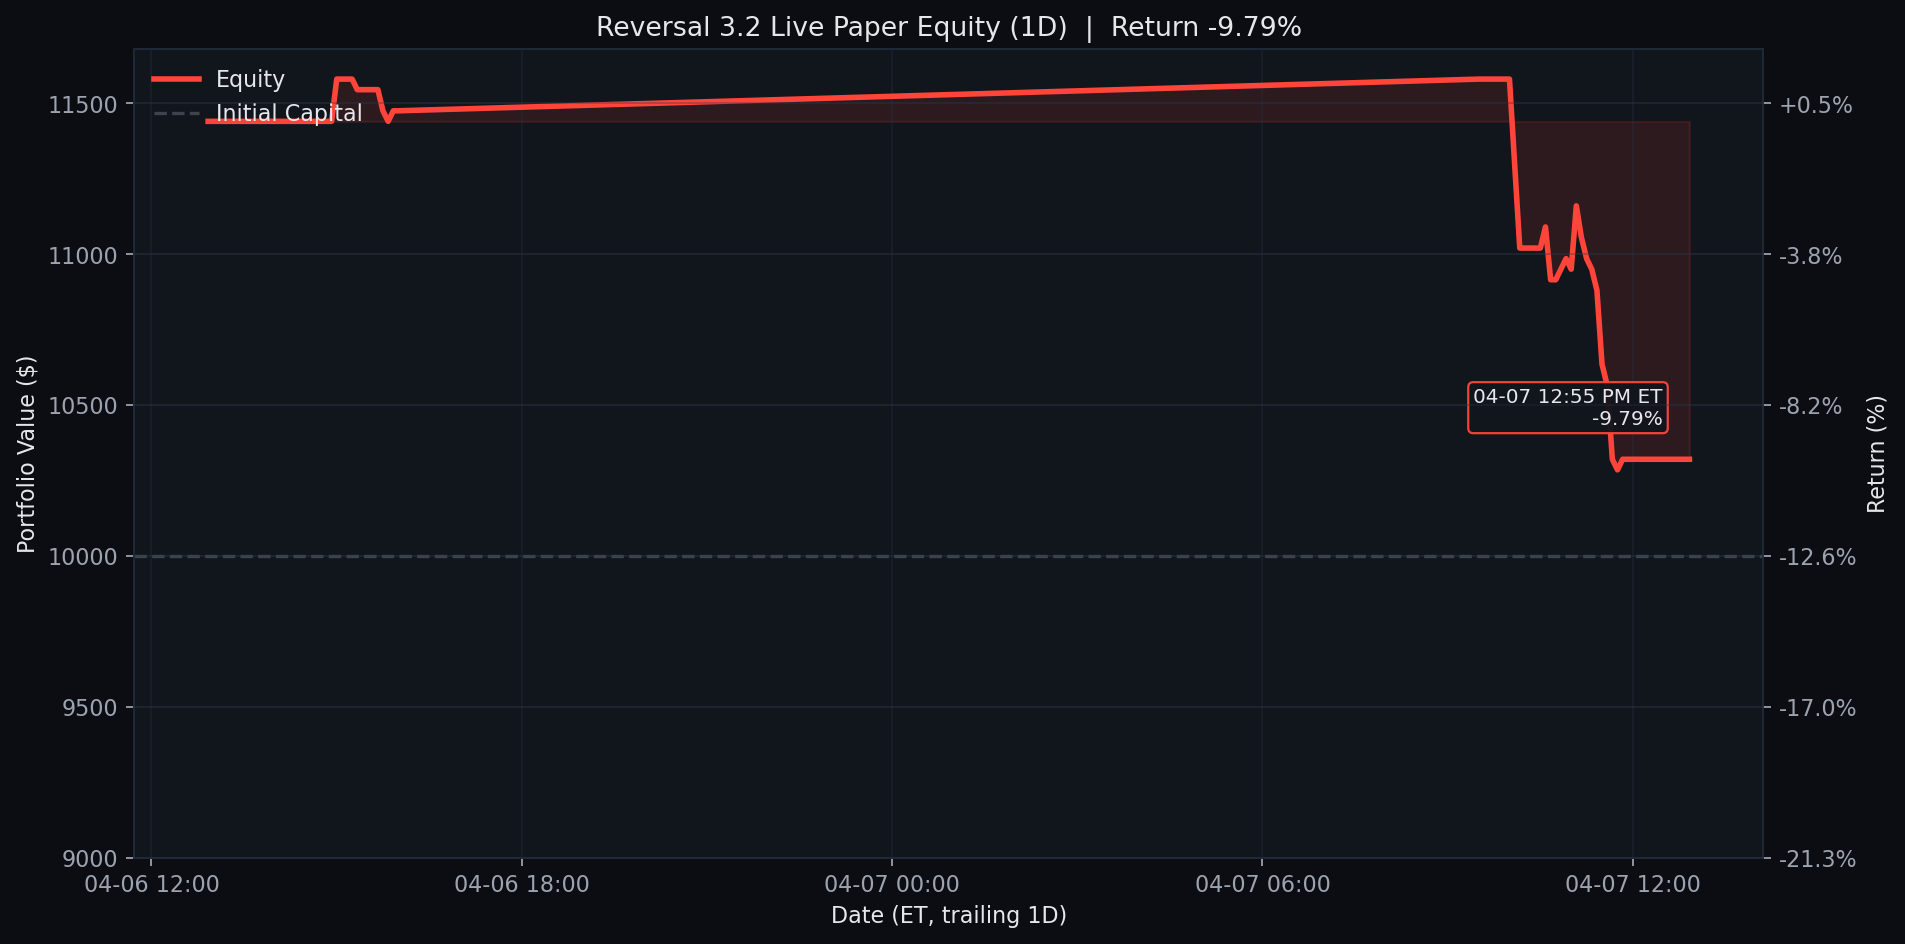
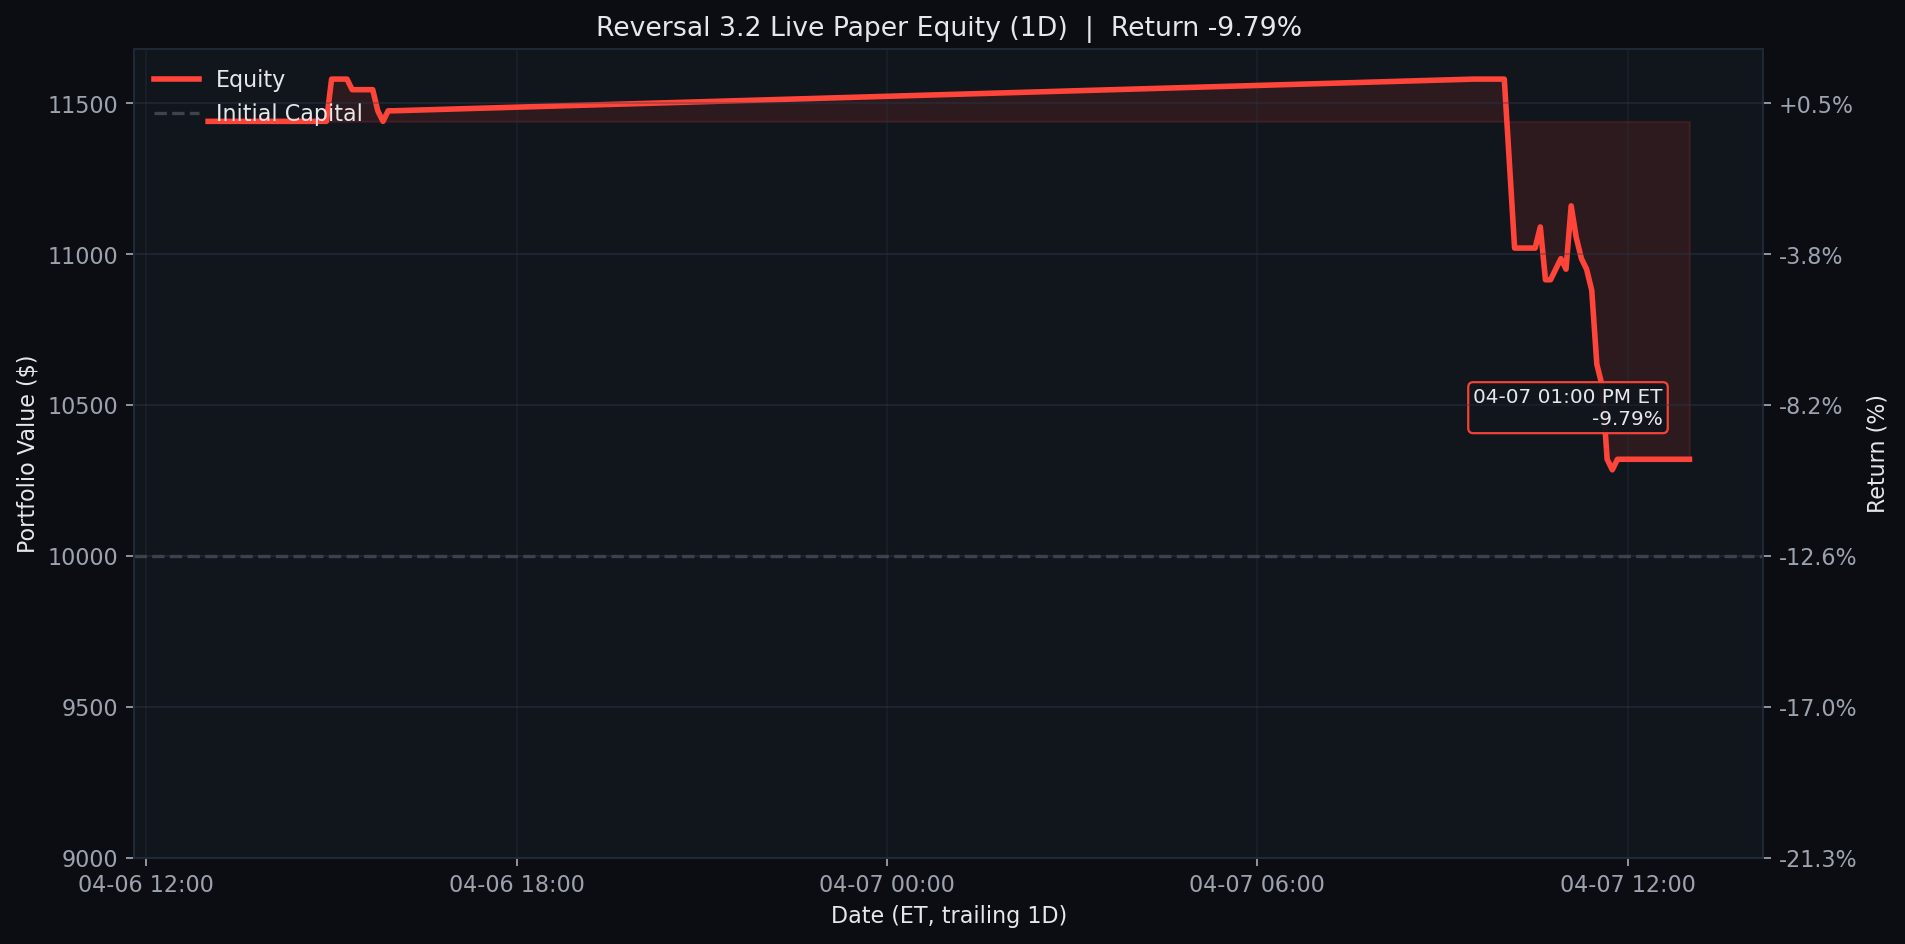
Update Reversal 3.2 live paper test 2026-04-07 13:00 ET

diff --git a/results/reversal_3_2_live/README.md b/results/reversal_3_2_live/README.md
@@ -1,6 +1,6 @@
 # Reversal 3.2 Live Paper Test
 
-Last updated (ET): `2026-04-07 12:55:00 EDT`
+Last updated (ET): `2026-04-07 13:00:02 EDT`
 Last processed slot: `manage_1300`
 
 ## Active Configuration
@@ -40,34 +40,34 @@ ticker    contract_symbol entry_trade_date_et exit_trade_date_et  entry_option_p
 
 ```text
 ticker  success_rate_%  matched_signals  current_drop_%  target_rebound_$  target_price  rolling_sigma_20d_%  call_candidate
-  REGN           96.77               31            1.00              5.36        760.74                25.24            True
-  NVDA           92.86               28            1.03              1.28        177.09                33.70            True
-  COST           92.59               27            0.76              5.44       1016.22                13.04            True
-  UPRO           90.62               32            1.24              0.88        100.36                53.86            True
-  PCAR           90.24               41            0.53              0.44        118.13                21.97            True
-   LIN           90.00               10            1.40              4.91        497.37                19.02            True
-  ORLY           89.74               39            0.60              0.38         91.97                23.11            True
-  ABNB           89.29               28            1.51              1.34        126.23                36.80            True
+  REGN           96.77               31            1.10              5.89        760.51                25.24            True
+  COST           95.24               21            0.87              6.18       1015.90                13.04            True
+  NVDA           92.59               27            1.20              1.49        177.00                33.70            True
+  UPRO           90.32               31            1.27              0.90        100.36                53.86            True
+   LIN           90.00               10            1.49              5.22        497.23                19.02            True
+  PCAR           89.47               38            0.63              0.52        118.10                21.97            True
+  ABNB           89.29               28            1.53              1.36        126.23                36.80            True
+  ASML           88.89               36            0.60              5.46       1301.67                47.16            True
+  ORLY           88.57               35            0.69              0.45         91.94                23.11            True
   FAST           87.50               24            1.09              0.35         45.72                20.98            True
-  MCHP           87.18               39            0.58              0.27         67.10                42.27            True
-  VRTX           86.67               30            1.25              3.80        432.67                40.01            True
-  MDLZ           86.67               15            0.72              0.29         58.25                25.49            True
+  MCHP           87.18               39            0.60              0.28         67.10                42.27            True
+  KLAC           87.18               39            0.53              5.73       1537.61                45.70            True
 ```
 
 ## Recent Events
 
 ```text
-                    timestamp_et        slot   event_type                                                                                                                              detail
-2026-04-07T12:55:00.916656-04:00 manage_1300 slot_skipped                                                                                                     {"reason": "already_processed"}
-2026-04-07T12:40:05.895143-04:00 manage_1230 slot_skipped                                                                                                     {"reason": "already_processed"}
-2026-04-07T12:35:03.878614-04:00 manage_1230 slot_skipped                                                                                                     {"reason": "already_processed"}
-2026-04-07T12:30:00.912059-04:00 manage_1230 slot_skipped                                                                                                     {"reason": "already_processed"}
-2026-04-07T12:25:00.895869-04:00 manage_1230 slot_skipped                                                                                                     {"reason": "already_processed"}
-2026-04-07T12:10:05.880109-04:00 manage_1200 slot_skipped                                                                                                     {"reason": "already_processed"}
-2026-04-07T12:05:00.898216-04:00 manage_1200 slot_skipped                                                                                                     {"reason": "already_processed"}
-2026-04-07T12:00:02.896423-04:00 manage_1200 slot_skipped                                                                                                     {"reason": "already_processed"}
-2026-04-07T11:55:05.888145-04:00 manage_1200 slot_skipped                                                                                                     {"reason": "already_processed"}
-2026-04-07T11:50:05.887768-04:00 manage_1200         exit {"contract_symbol": "HON260515C00230000", "pnl": -1120.0, "reason": "stop_loss_hit_at_scan", "return_pct": -21.62, "ticker": "HON"}
+                    timestamp_et        slot   event_type                          detail
+2026-04-07T13:00:02.895617-04:00 manage_1300 slot_skipped {"reason": "already_processed"}
+2026-04-07T12:55:00.916656-04:00 manage_1300 slot_skipped {"reason": "already_processed"}
+2026-04-07T12:40:05.895143-04:00 manage_1230 slot_skipped {"reason": "already_processed"}
+2026-04-07T12:35:03.878614-04:00 manage_1230 slot_skipped {"reason": "already_processed"}
+2026-04-07T12:30:00.912059-04:00 manage_1230 slot_skipped {"reason": "already_processed"}
+2026-04-07T12:25:00.895869-04:00 manage_1230 slot_skipped {"reason": "already_processed"}
+2026-04-07T12:10:05.880109-04:00 manage_1200 slot_skipped {"reason": "already_processed"}
+2026-04-07T12:05:00.898216-04:00 manage_1200 slot_skipped {"reason": "already_processed"}
+2026-04-07T12:00:02.896423-04:00 manage_1200 slot_skipped {"reason": "already_processed"}
+2026-04-07T11:55:05.888145-04:00 manage_1200 slot_skipped {"reason": "already_processed"}
 ```
 
 ## Equity Curves
@@ -77,20 +77,20 @@ Each chart is generated from the same live equity series with no-lookahead marks
 <details>
 <summary><strong>1D</strong></summary>
 
-![Reversal 3.2 Live Equity 1D](../../assets/reversal_3_2_live_equity_1d.png?v=20260407125500)
+![Reversal 3.2 Live Equity 1D](../../assets/reversal_3_2_live_equity_1d.png?v=20260407130002)
 
 </details>
 
 <details open>
 <summary><strong>1W</strong></summary>
 
-![Reversal 3.2 Live Equity 1W](../../assets/reversal_3_2_live_equity.png?v=20260407125500)
+![Reversal 3.2 Live Equity 1W](../../assets/reversal_3_2_live_equity.png?v=20260407130002)
 
 </details>
 
 <details>
 <summary><strong>1M</strong></summary>
 
-![Reversal 3.2 Live Equity 1M](../../assets/reversal_3_2_live_equity_1m.png?v=20260407125500)
+![Reversal 3.2 Live Equity 1M](../../assets/reversal_3_2_live_equity_1m.png?v=20260407130002)
 
 </details>

diff --git a/README.md b/README.md
@@ -3,7 +3,7 @@
 <!-- reversal-3.2-live:start -->
 ## Reversal 3.2 Live Paper Test
 
-- Last updated (ET): `2026-04-07 12:55:00 EDT`
+- Last updated (ET): `2026-04-07 13:00:02 EDT`
 - Equity: `$10,320.00` | Realized: `$320.00` | Unrealized: `$0.00` | Open positions: `0`
 - Today closed trades: `1`
 - Current slot: `manage_1300`
@@ -17,21 +17,21 @@ _None_
 <details>
 <summary><strong>1D</strong></summary>
 
-![Reversal 3.2 Live Equity 1D](assets/reversal_3_2_live_equity_1d.png?v=20260407125500)
+![Reversal 3.2 Live Equity 1D](assets/reversal_3_2_live_equity_1d.png?v=20260407130002)
 
 </details>
 
 <details open>
 <summary><strong>1W</strong></summary>
 
-![Reversal 3.2 Live Equity 1W](assets/reversal_3_2_live_equity.png?v=20260407125500)
+![Reversal 3.2 Live Equity 1W](assets/reversal_3_2_live_equity.png?v=20260407130002)
 
 </details>
 
 <details>
 <summary><strong>1M</strong></summary>
 
-![Reversal 3.2 Live Equity 1M](assets/reversal_3_2_live_equity_1m.png?v=20260407125500)
+![Reversal 3.2 Live Equity 1M](assets/reversal_3_2_live_equity_1m.png?v=20260407130002)
 
 </details>
 
